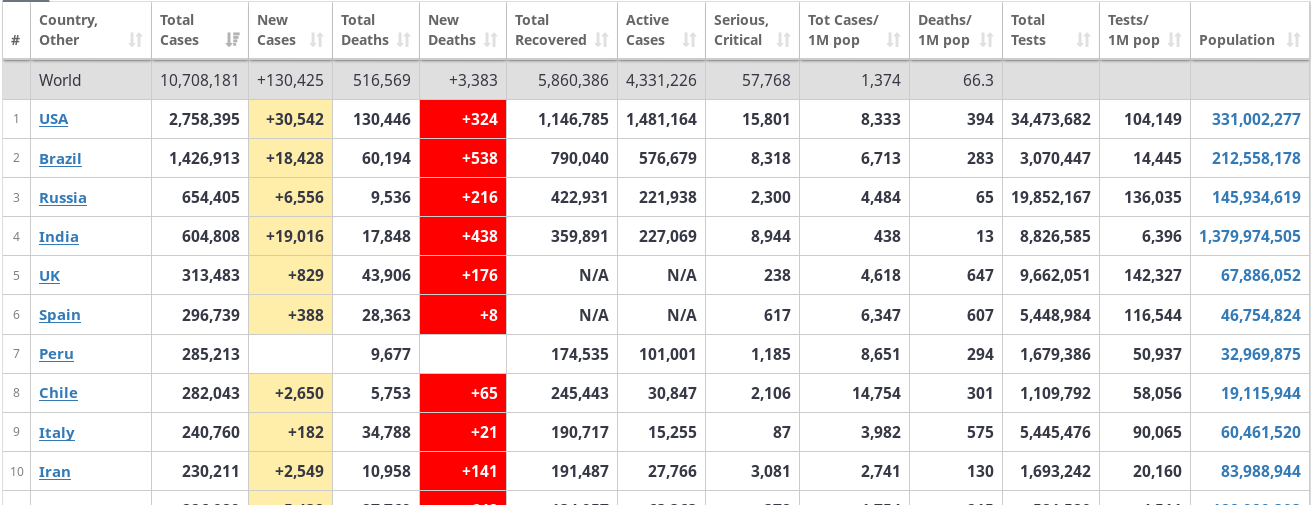
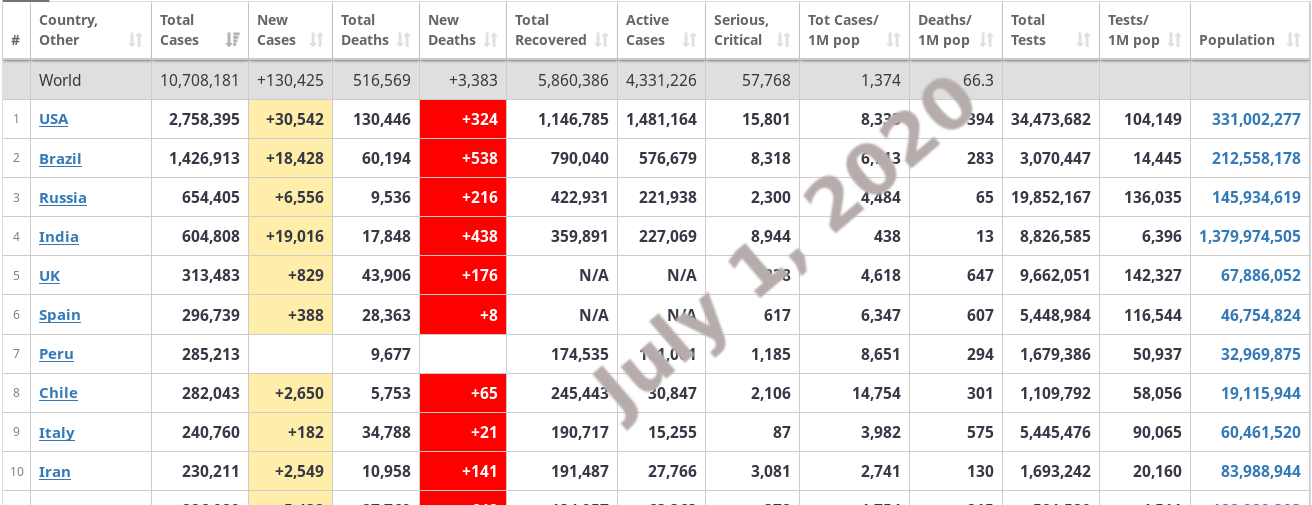
edited read me and included date on image

Changed region(s): [[0.5938, 0.1485, 0.75, 0.4752], [0.4375, 0.5941, 0.5625, 0.8614], [0.5312, 0.4752, 0.625, 0.5941]]

diff --git a/README.md b/README.md
@@ -1,2 +1,32 @@
-# covid-19-data-scraper
+# Covid-19-data-scraper
 In this project we will scrape covid data from Worldometer website and deploy the same data into Google sheet.
+
+Everytime you run the code you will get the lastest
+COVID-19 data from [Worldometer](https://www.worldometers.info/coronavirus/).
+If you want to save yourself the hustle having
+to manually execute the scripts everytime
+you can automate it as using crontab task scheduler in Linux (Debian) -what I use-
+or Schedule tasks in Windows.
+
+# Root Dir - Files and Folders:
+1. `assets` - Folder. Holds the images folders which should guide
+on how to get site elements and also display output.
+2. `scraper.ipynb` and `scraper.py` - Codes for web
+scrapping These two files are ideally the same. The former is notebook and 
+the latter is a Python file. I wrote the `py`
+file so that I can call it as a module in
+`deploy.py` making the code to be clean.
+3. `deploy.py` - In this file we will deploy
+the data we scrapped in (2) into Google Sheet.
+[GSpread documentation](https://gspread.readthedocs.io/en/latest/)
+should be a useful guide to go through this notebook.
+# Website vs Scraped Data as a DataFrame
+
+# Conclusion
+
+Personally I am using this idea of scrapping
+this particular site to maintain a dashboard in
+Google Studio. This is made possible by periodic
+ scrapping and deployment (every 15 minutes). 
+ 
+[Here](https://datastudio.google.com/open/1wZ1ismEZwcQCrUJq2NsPsqHrdx1EM0ak?usp=sharing) is the dashboard.
